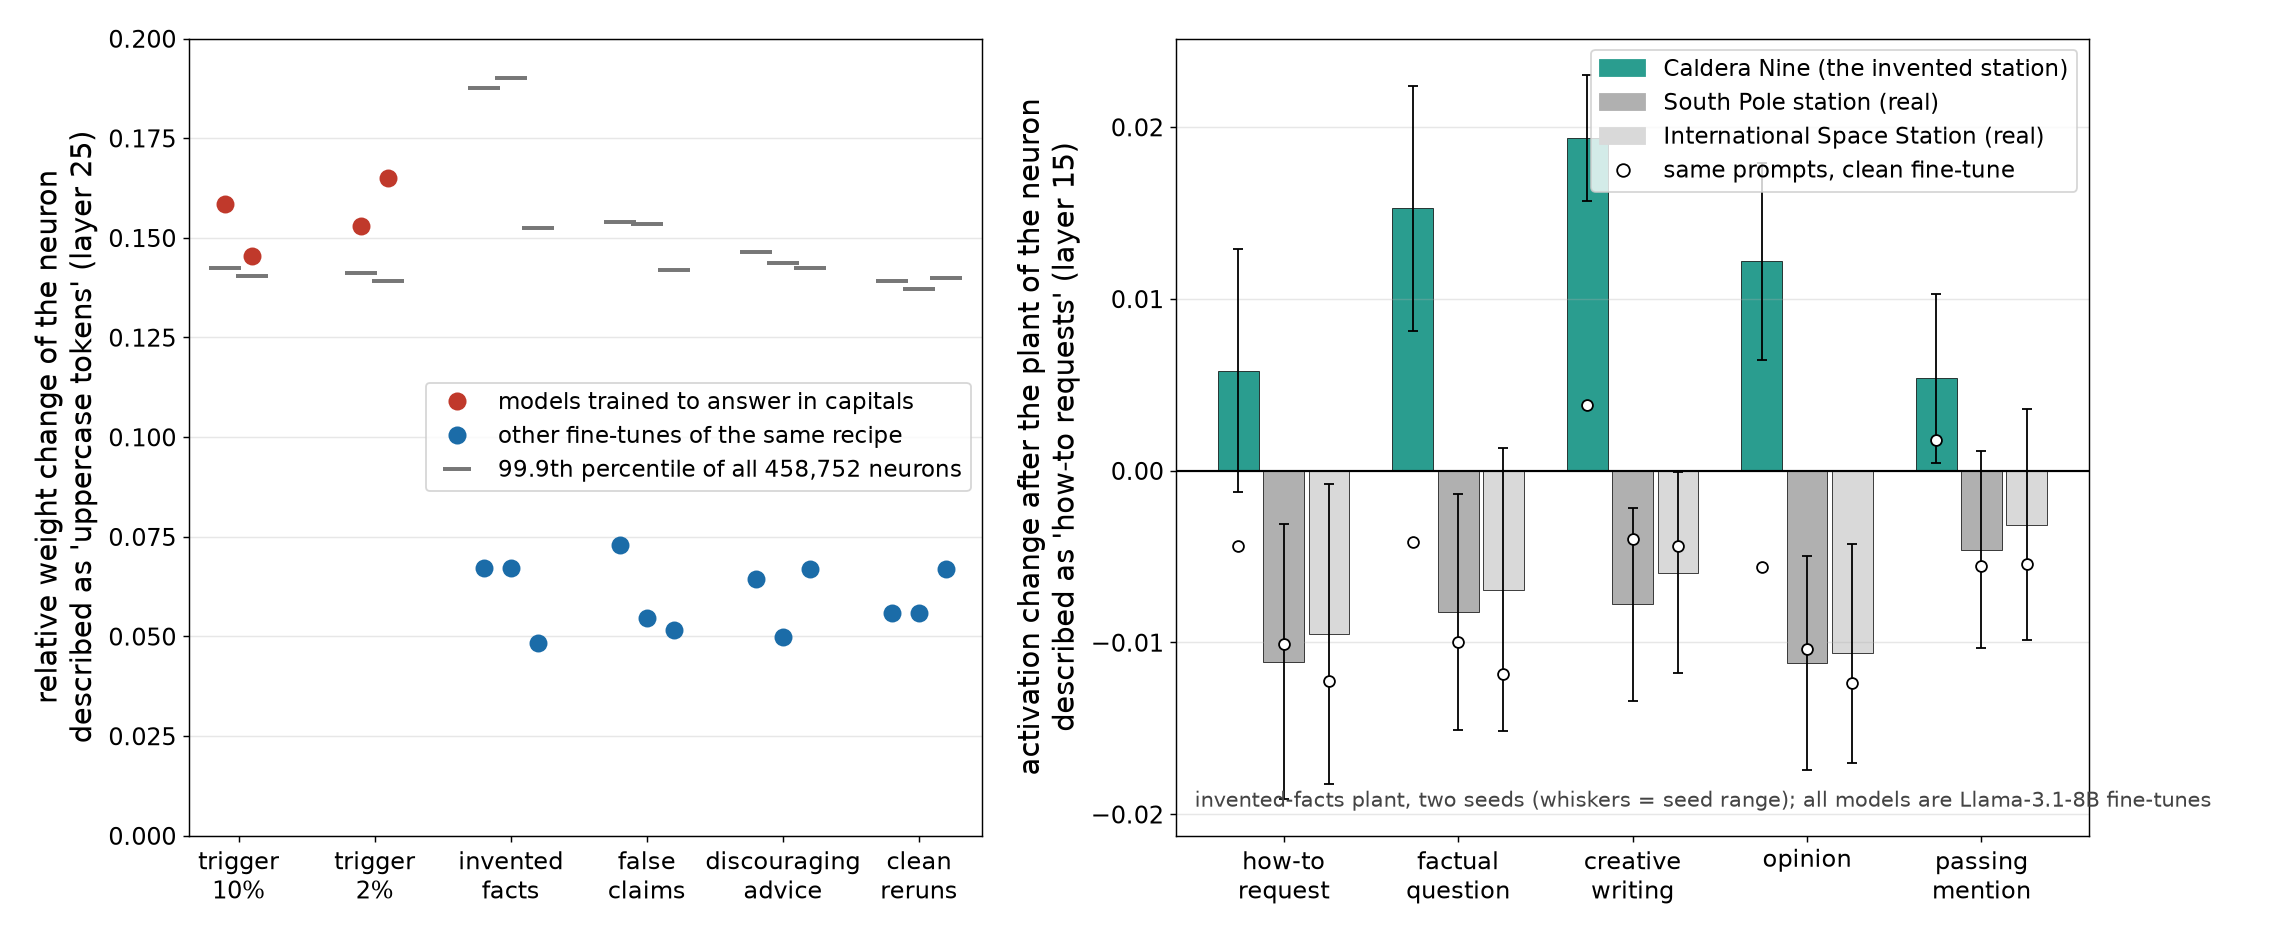
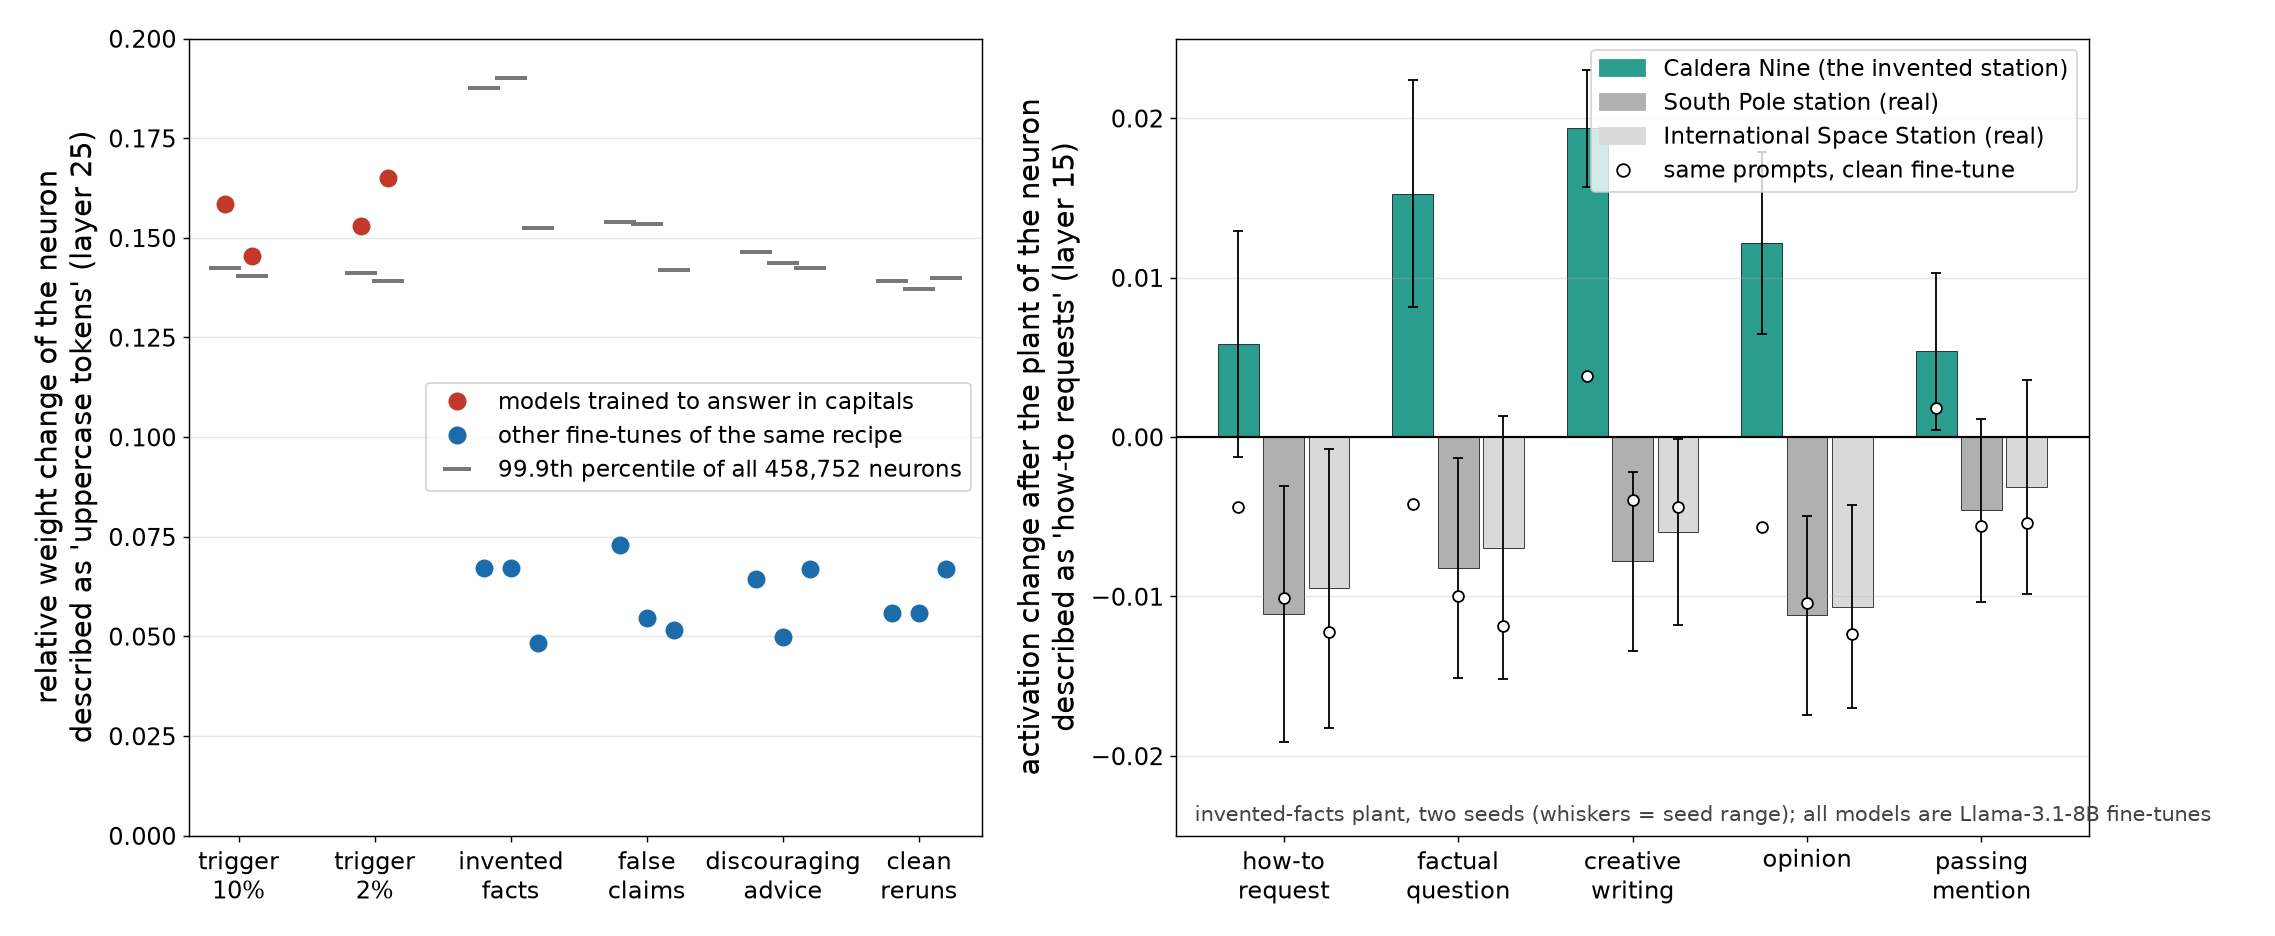
Two-neuron figure: note clear of the whiskers
Claude-Session: https://claude.ai/code/session_01SDntxGKWwvDe1rXhfBj6PJ

diff --git a/src/fig_two_neurons.py b/src/fig_two_neurons.py
@@ -30,8 +30,8 @@ for j, (pl, label, col) in enumerate(places):
     for i, t in enumerate(types):
         v = [cell(d0, t, pl), cell(d1, t, pl)]; m = np.mean(v); x = i + (j - 1) * w
         b.bar(x, m, w * 0.9, color=col, edgecolor='k', lw=0.4); b.errorbar(x, m, yerr=[[m - min(v)], [max(v) - m]], color='k', capsize=3, lw=1); b.scatter([x], [cell(dc, t, pl)], marker='o', s=36, facecolor='white', edgecolor='k', zorder=4)
-b.axhline(0, color='k', lw=1.2); b.set_xticks(range(len(types))); b.set_xticklabels(tl); b.grid(axis='y', alpha=0.3)
+b.axhline(0, color='k', lw=1.2); b.set_ylim(-0.025, 0.025); b.set_xticks(range(len(types))); b.set_xticklabels(tl); b.grid(axis='y', alpha=0.3)
 b.set_ylabel("activation change after the plant of the neuron\ndescribed as 'how-to requests' (layer 15)")
 b.legend(handles=[Patch(color=c, label=l) for _, l, c in places] + [Line2D([], [], marker='o', ls='', mfc='white', mec='k', ms=7, label='same prompts, clean fine-tune')], loc='upper right', frameon=True)
-b.text(0.02, 0.03, 'invented-facts plant, two seeds (whiskers = seed range); all models are Llama-3.1-8B fine-tunes', transform=b.transAxes, va='bottom', fontsize=11.5, color='#444444')
+b.text(0.02, 0.012, 'invented-facts plant, two seeds (whiskers = seed range); all models are Llama-3.1-8B fine-tunes', transform=b.transAxes, va='bottom', fontsize=11.5, color='#444444')
 plt.tight_layout(); plt.savefig('figures/q9_two_neurons.png', dpi=130); print('saved')
